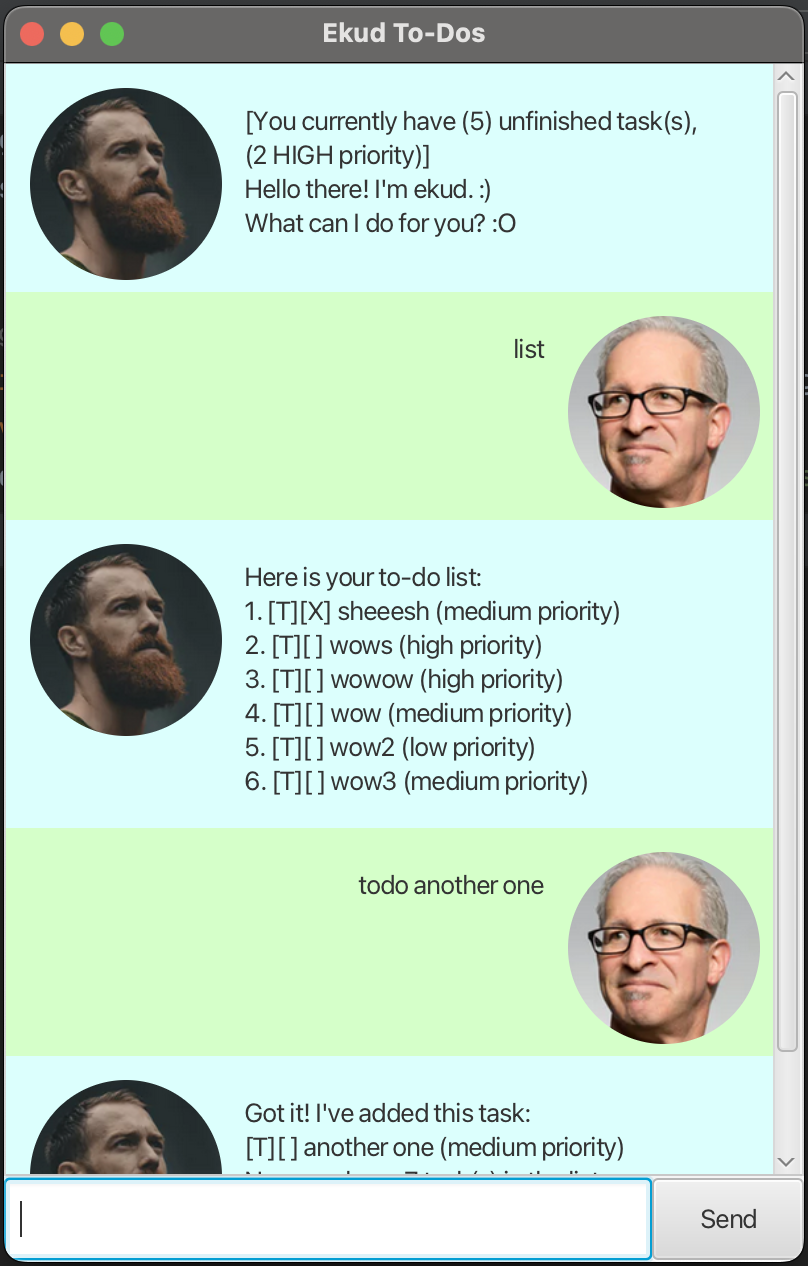
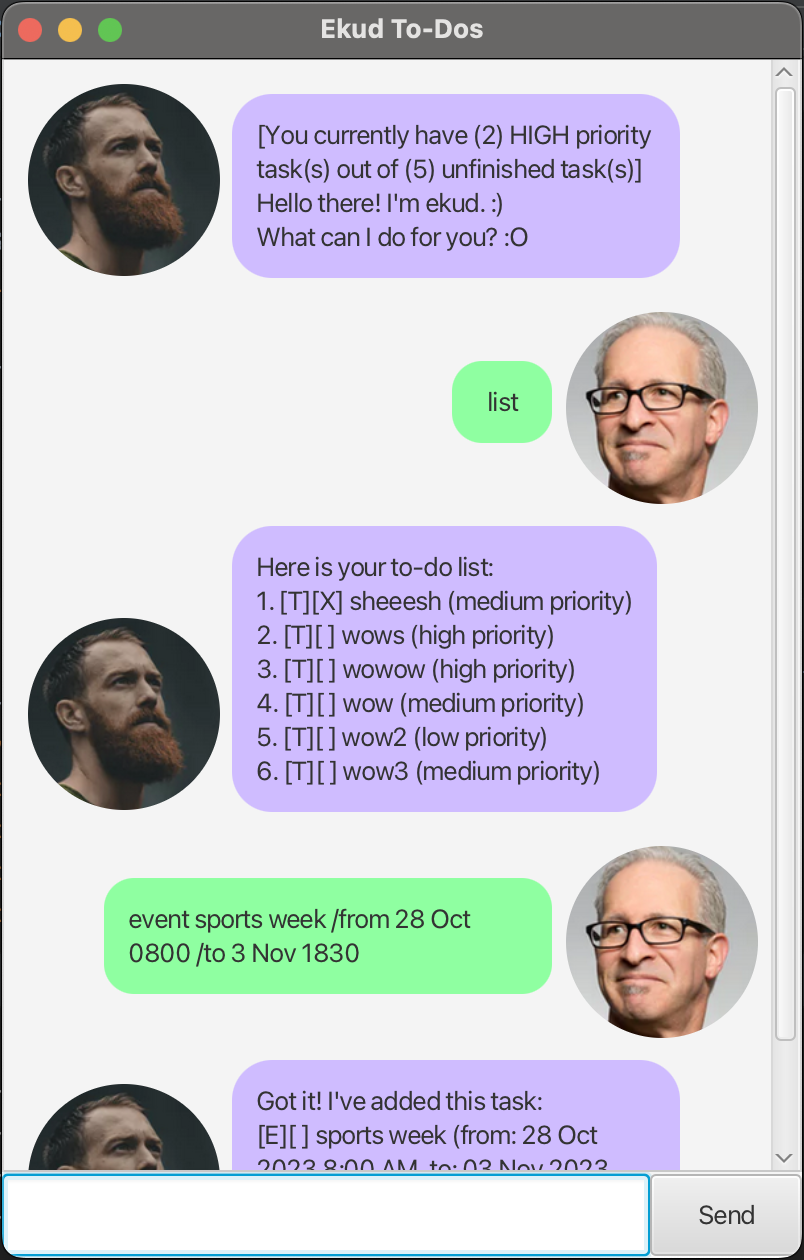
Update Screenshot
Modifies the current GUI by having user and chatbot
dialogs, and adds a new Ui.png screenshot

diff --git a/src/main/java/ekud/ui/DialogBox.java b/src/main/java/ekud/ui/DialogBox.java
@@ -12,7 +12,6 @@ import javafx.scene.Node;
 import javafx.scene.control.Label;
 import javafx.scene.image.Image;
 import javafx.scene.image.ImageView;
-import javafx.scene.layout.Background;
 import javafx.scene.layout.HBox;
 import javafx.scene.shape.Circle;
 
@@ -27,9 +26,8 @@ public class DialogBox extends HBox {
     private Label dialog;
     @FXML
     private ImageView displayPicture;
-    private static final String USER_DIALOG_BG_COLOR = "#D5FFC9";
-    private static final String DUKE_DIALOG_BG_COLOR = "#DCFFFD";
-
+    private static final String USER_DIALOG_BG_COLOR = "#8FFFA1";
+    private static final String DUKE_DIALOG_BG_COLOR = "#CFBCFF";
 
     private DialogBox(String text, Image img) {
         try {
@@ -62,14 +60,34 @@ public class DialogBox extends HBox {
 
     public static DialogBox getUserDialog(String text, Image img) {
         var db = new DialogBox(text, img);
-        db.setStyle(String.format("-fx-background-color: %s", USER_DIALOG_BG_COLOR));
+        // Rounded corners styling for the dialog prop, credits to
+        // https://stackoverflow.com/questions/33421353/java-fx-8-dialog-rounded-corners
+        db.dialog.setStyle(String.format(
+                "-fx-background-color: %s; -fx-background-radius: 15 15 15 15;"
+                + "-fx-padding: 12 12 12 12; -fx-margin: 0 100 0 0",
+                USER_DIALOG_BG_COLOR));
+        db.dialog.setMinWidth(50);
+        // Change the alignment of content within props using setAlignment() of the respective prop, credits to
+        // https://docs.oracle.com/javafx/2/layout/size_align.htm#:~:text=setAlignment(Pos.,shown%20in%20Figure%202%2D5.
+        db.dialog.setAlignment(Pos.CENTER);
+        // Align the user dialog to the center right w.r.t. the dialog box
+        db.setAlignment(Pos.CENTER_RIGHT);
+        // Set left padding in dialog box so user dialog has some space from the left
+        db.setStyle("-fx-padding: 5 5 5 50;");
         return db;
     }
 
     public static DialogBox getDukeDialog(String text, Image img) {
         var db = new DialogBox(text, img);
         db.flip();
-        db.setStyle(String.format("-fx-background-color: %s", DUKE_DIALOG_BG_COLOR));
+        db.dialog.setStyle(String.format(
+                "-fx-background-color: %s; -fx-background-radius: 20 20 20 20;"
+                + "-fx-padding: 12 12 12 12; -fx-margin: 0 100 0 0",
+                DUKE_DIALOG_BG_COLOR));
+        // Align the ekud dialog to the bottom left w.r.t the dialog box
+        db.setAlignment(Pos.BOTTOM_LEFT);
+        // Set right padding in dialog box so ekud dialog has some space from the right
+        db.setStyle("-fx-padding: 5 50 5 5;");
         return db;
     }
 }

diff --git a/src/main/java/ekud/storage/Storage.java b/src/main/java/ekud/storage/Storage.java
@@ -106,10 +106,10 @@ public class Storage {
                 response = numHighPriorityUndoneTasks == 0
                         ? String.format(
                         "[You currently have (%d) unfinished task(s)]",
-                        curTaskIndex - numDoneTasks, numHighPriorityUndoneTasks)
+                        curTaskIndex - numDoneTasks)
                         : String.format(
-                        "[You currently have (%d) unfinished task(s),\n(%d HIGH priority)]",
-                        curTaskIndex - numDoneTasks, numHighPriorityUndoneTasks);
+                        "[You currently have (%d) HIGH priority task(s) out of (%d) unfinished task(s)]",
+                        numHighPriorityUndoneTasks, curTaskIndex - numDoneTasks);
             };
             return response;
         } catch (IOException e) {

diff --git a/docs/README.md b/docs/README.md
@@ -6,7 +6,7 @@
 2. Download `Ekud.jar` from [here](https://github.com/J-hta-n/ip/releases).
 3. Run `java -jar Ekud.jar` on the terminal in the same directory as the jar file.
 
-![Preview of Ekud chatbot](https://j-hta-n.github.io/ip/Ui.png)
+<img src="https://j-hta-n.github.io/ip/Ui.png" alt="Ekud chatbot" width=150>
 
 ## Features 
 
